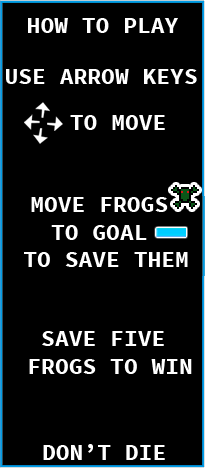
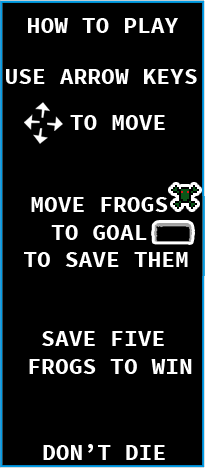
Updated Empty Goal Appearance / Instructions
Updated the Background with a new Empty Goal Appearance and updated the instructions to reflect that

Changed region(s): [[0.7317, 0.4487, 0.9659, 0.5385]]

diff --git a/FrogGame.js b/FrogGame.js
@@ -57,7 +57,7 @@ function bootStrap() {
         
         // LOADING ALL IMAGES
         
-        game.load.image('img_placeholder', 'level1mockupplaceholder2.png');
+        game.load.image('img_placeholder', 'level1mockupplaceholder3.png');
         
         //Frog Sprites
         game.load.image('frogUp', 'frog_Sprite/frogBase.png');
